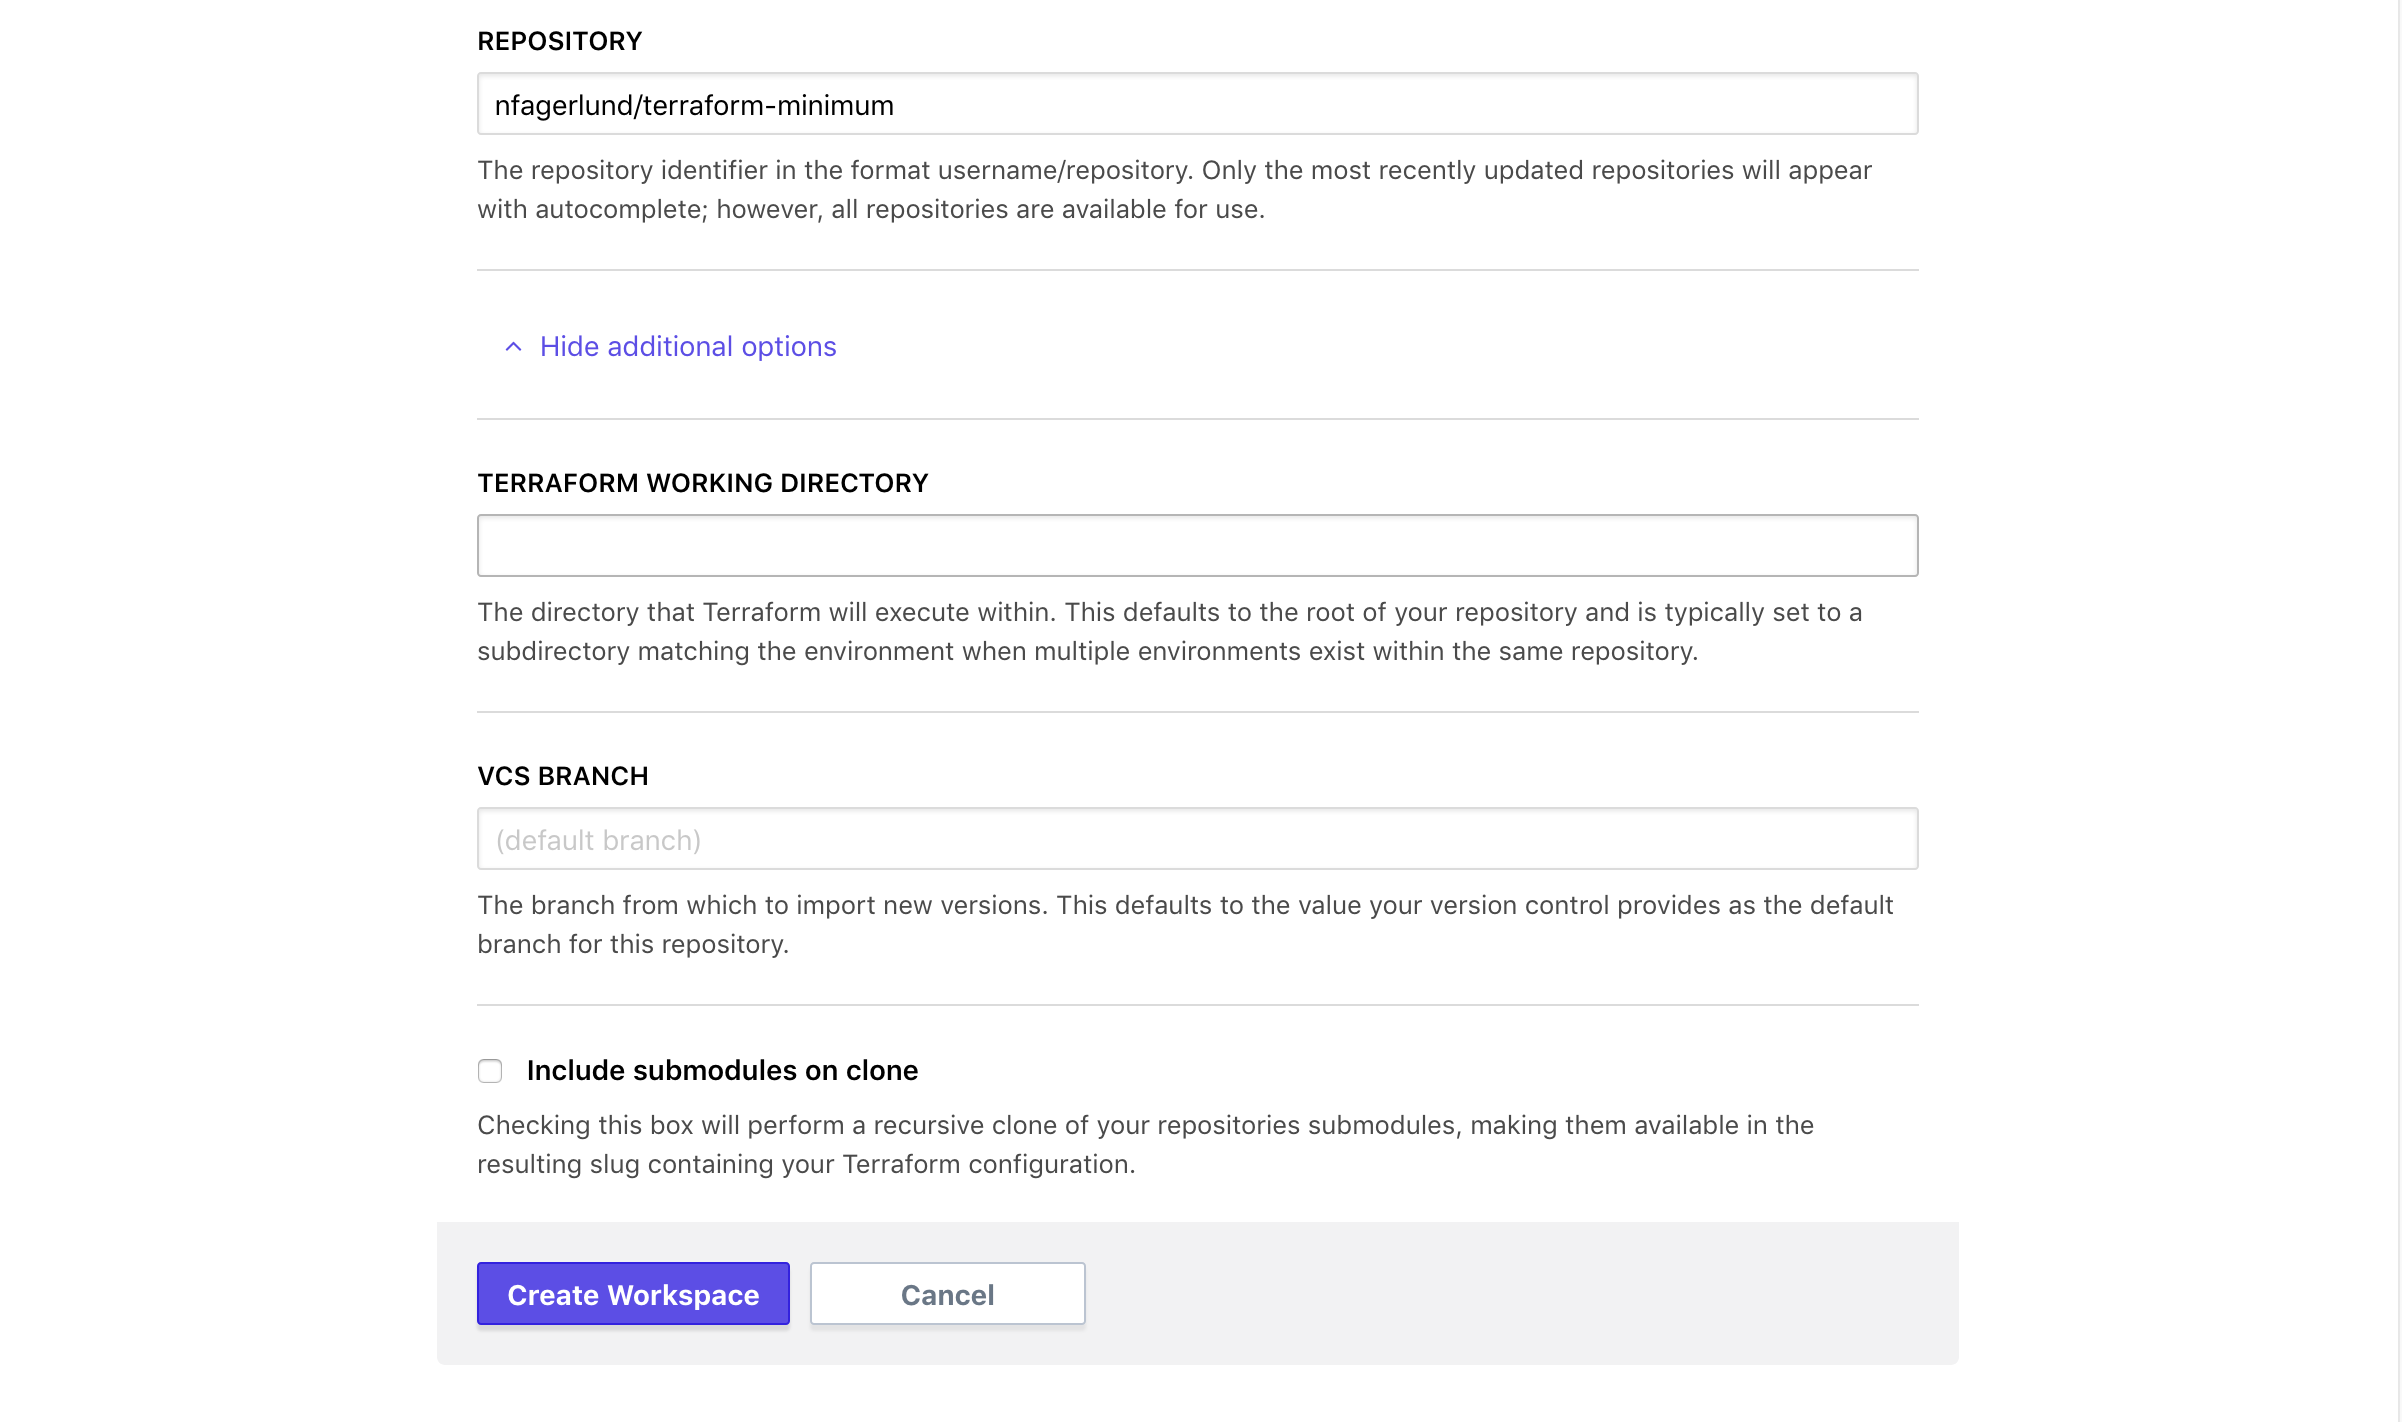
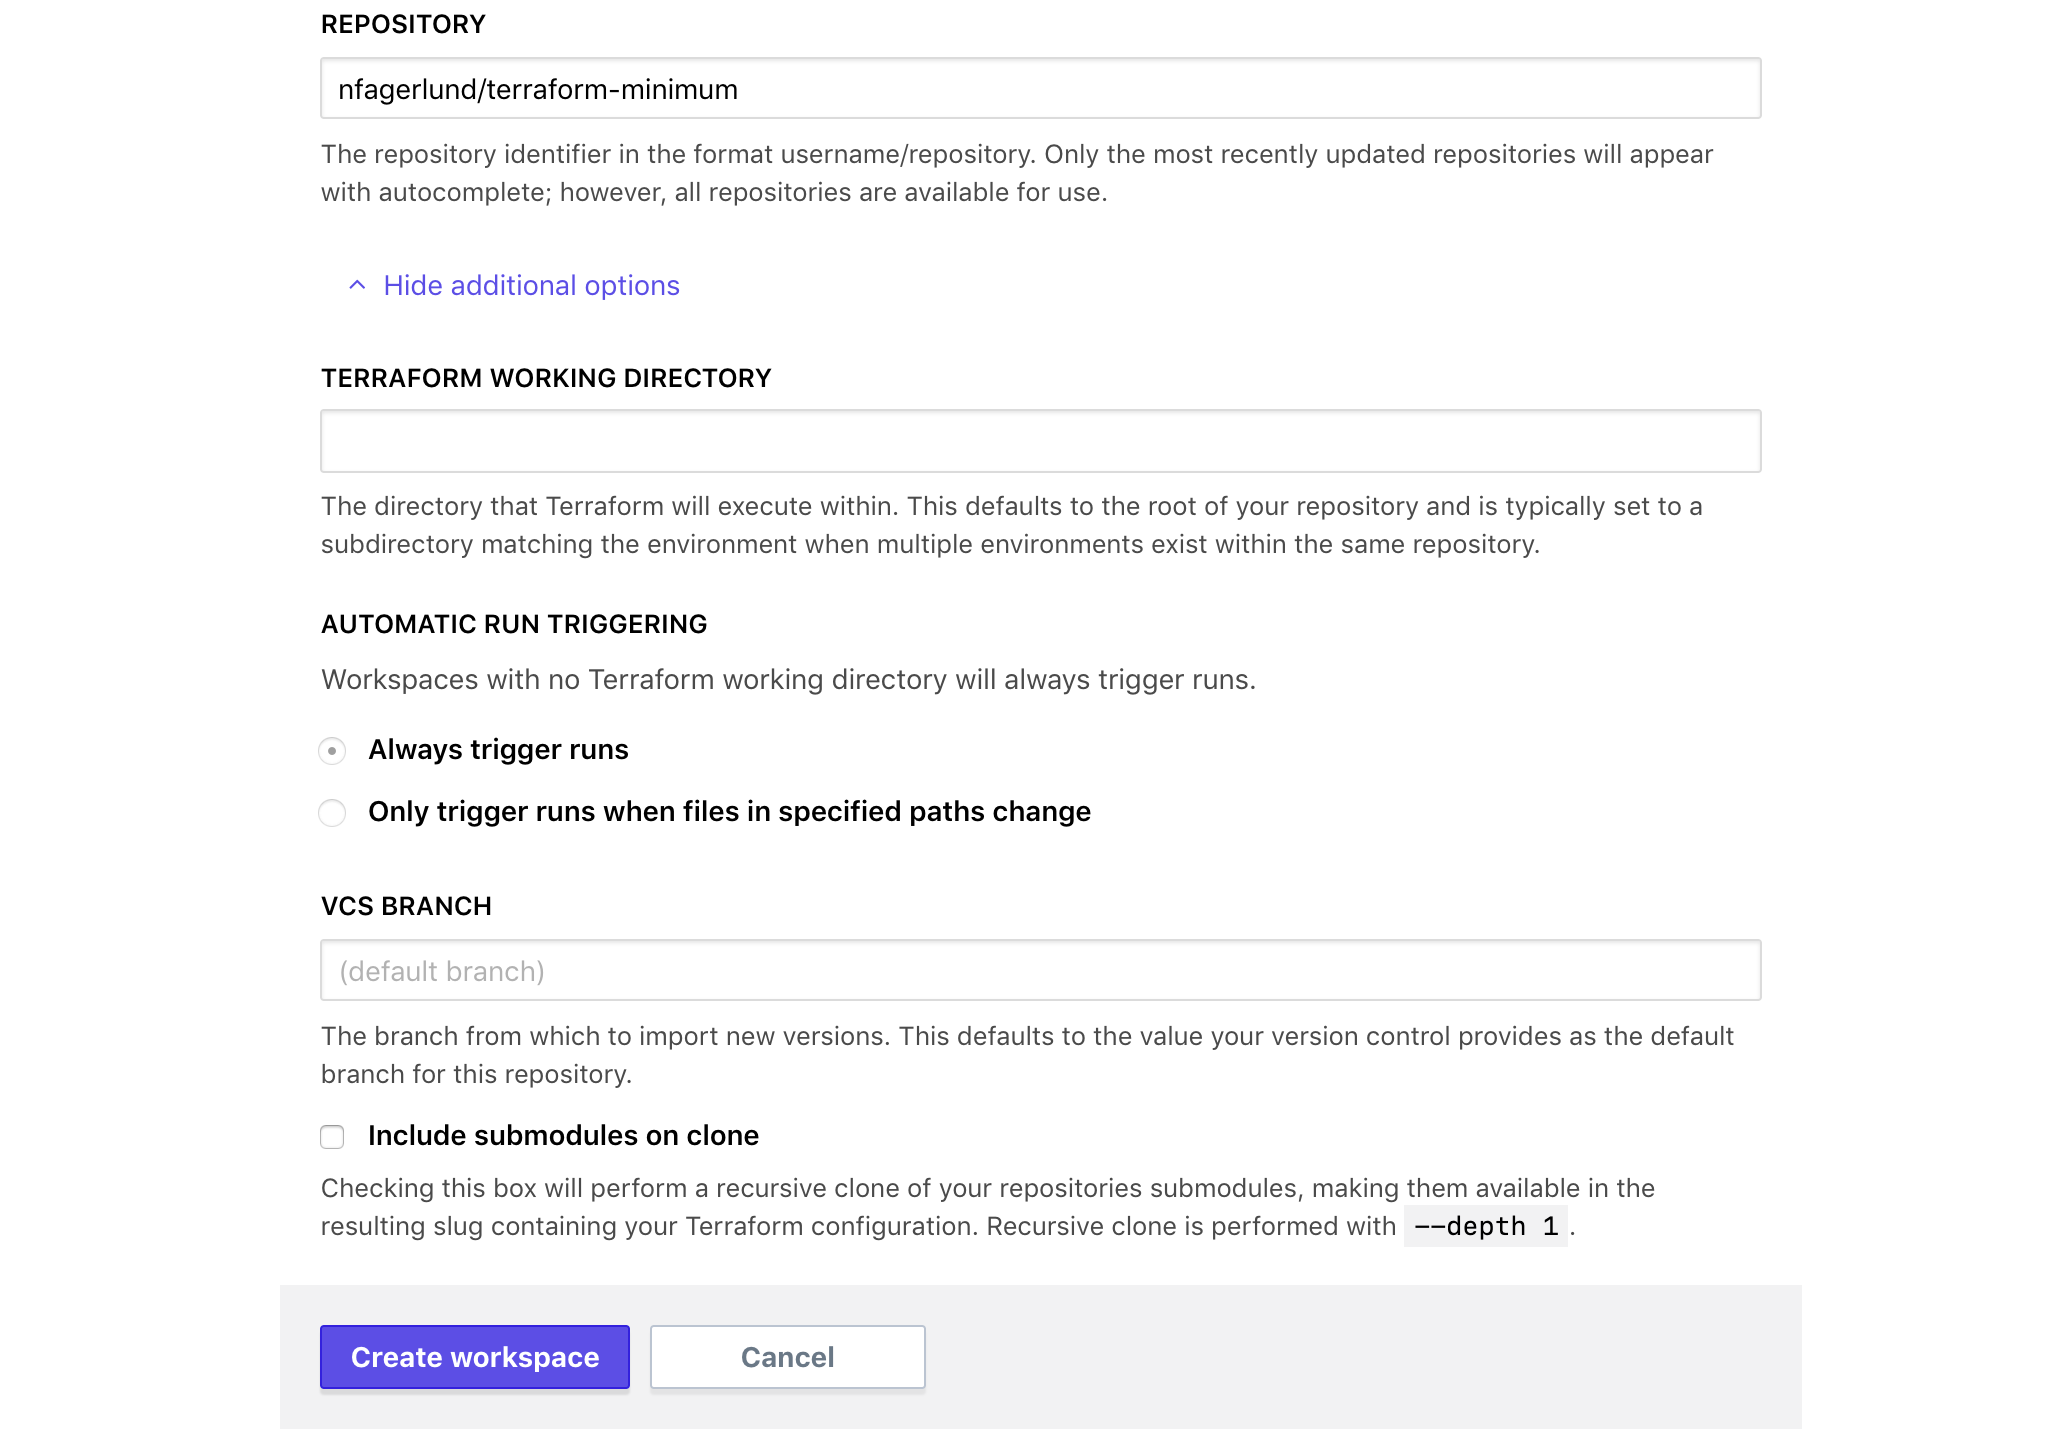
Restructure monorepo filtering docs

diff --git a/content/source/docs/enterprise/workspaces/settings.html.md b/content/source/docs/enterprise/workspaces/settings.html.md
@@ -63,7 +63,7 @@ You can choose "latest" to automatically update a workspace to new versions, or 
 
 The directory where Terraform will execute, specified as a relative path from the root of the configuration directory. This is useful when working with VCS repos that contain multiple Terraform configurations. Defaults to the root of the configuration directory.
 
--> **Note:** If you specify a working directory, TFE will still queue a plan for changes to the repository outside that working directory. This is because local modules are often outside the working directory, and changes to those modules should result in a new run. If you have a repo that manages multiple infrastructure components with different lifecycles and are experiencing too many runs, we recommend splitting the components out into independent repos. See [Repository Structure](./repo-structure.html) for more detailed explanations.
+- **Note** — If you specify a working directory, TFE will by default only queue a plan for changes to the repository inside that working directory. You can override this behaviour with [Automatic Run Triggering](#automatic-run-triggering) settings.
 
 ## Locking
 
@@ -113,6 +113,25 @@ You can use the "Select a VCS connection" buttons and "Repository" field to chan
 - [Connecting VCS Providers to Terraform Enterprise](../vcs/index.html) for more details about configuring VCS integrations.
 
 -> **API:** If you need to change VCS connections for many workspaces at once, consider automating the changes with the [Update a Workspace endpoint](../api/workspaces.html#update-a-workspace). This is most common when moving a VCS server, or when a vendor deprecates an older API version.
+
+### Automatic Run Triggering
+
+For workspaces that **don't** specify a Terraform working directory, TFE assumes that the entire repository is relevant to the workspace. Any change will trigger a run.
+
+For workspaces that **do** specify a Terraform working directory, TFE assumes that only _some_ content in the repository is relevant to the workspace. Only changes that affect the relevant content will trigger a run. By default, only the working directory is considered relevant.
+
+You can adjust this behavior in two ways:
+
+- **Add more trigger directories.** TFE will queue runs for changes in any of the specified trigger directories (including the working directory).
+
+    For example, if you use a top-level `modules` directory to share Terraform code across multiple configurations, changes to the shared modules are relevant to every workspace that uses that repo. You can add `modules` as a trigger directory for each workspace to make sure they notice any changes to shared code.
+- **Mark the entire repository as relevant.** If you set the "Automatic Run Triggering" setting to "Always Trigger Runs," TFE will assume that anything in the repository might affect the workspace's configuration, and will queue runs for any change.
+
+    This can be useful for repos that don't have multiple configurations but require a working directory for some other reason. It's usually not what you want for true monorepos, since it queues unnecessary runs and slows down your ability to provision infrastructure.
+
+-> **Note:** Trigger directories also apply to [speculative plans](./index.html#speculative-plans) on pull requests — TFE won't queue plans for changes that aren't marked as relevant.
+
+-> **Error Handling:** Terraform Enterprise retrieves the changed files for each push or pull request using your VCS provider's API. If for some reason the list of changed files cannot be retrieved, or if it is too large to process, the default behaviour is to trigger runs on all attached workspaces. Should this happen, you may see several runs with state "Planned", due to the push resulting in no changes to infrastructure.
 
 ### VCS Branch
 

diff --git a/content/source/docs/enterprise/workspaces/creating.html.md b/content/source/docs/enterprise/workspaces/creating.html.md
@@ -40,7 +40,9 @@ VCS-backed workspaces support several optional fields, which you can reveal by c
 
 - **Terraform working directory** — The directory where Terraform will execute, specified as a relative path from the root of the repo. This is useful when working with VCS repos that contain multiple Terraform configurations. Defaults to the root of the repo.
 
-  -> **Note:** If you specify a working directory, TFE will still queue a plan for changes to the repository outside that working directory. This is because local modules are often outside the working directory, and changes to those modules should result in a new run. If you have a repo that manages multiple infrastructure components with different lifecycles and are experiencing too many runs, we recommend splitting the components out into independent repos. See [Repository Structure](./repo-structure.html) for more detailed explanations.
+- **Automatic run triggering** — If you specify a working directory, TFE will by default only queue a plan for changes to the repository inside that working directory. You can override this behaviour with these settings. See [Automatic Run Triggering](../workspaces/settings.html#automatic-run-triggering) settings for more details.
+
+![Screenshot: Controlling run triggering for workspaces with working directory](./images/creating-options-filtering.png)
 
 - **VCS branch** — Which branch of the repository to use. If left blank, TFE will use the repository's default branch.
 - **Include submodules on clone** (checkbox) — Whether to recursively clone all of the repository's Git submodules when fetching a configuration.

diff --git a/content/source/docs/enterprise/workspaces/repo-structure.html.md b/content/source/docs/enterprise/workspaces/repo-structure.html.md
@@ -63,7 +63,7 @@ The upside of this approach is that it requires fewer files and runs fewer plans
 
 For organizations that have significant differences between environments, or prefer short-lived branches that are frequently merged into the master branch, we recommend creating a separate directory for each environment.
 
-~> **Important:** Since workspaces will queue a plan whenever their VCS branch changes or receives a pull request, you should avoid connecting too many workspaces to the same repository. Connecting more than about ten workspaces to one branch of a repo can cause slow performance and unnecessary noise; if you need to support more workspaces than that, we recommend splitting components into multiple repos.
+-> **Note:** By default, TFE will only trigger runs when the contents of the workspace's working directory changes. You can configure your workspace to also trigger runs when modules or other dependencies change. See [Automatic Run Triggering](../workspaces/settings.html#automatic-run-triggering) settings for more details.
 
 In the example repo structure below, the prod, stage, and dev environments have separate `main.tf` configurations and `variables.tf` files. These environments can still refer to the same modules (like `compute` and `networking`).
 
